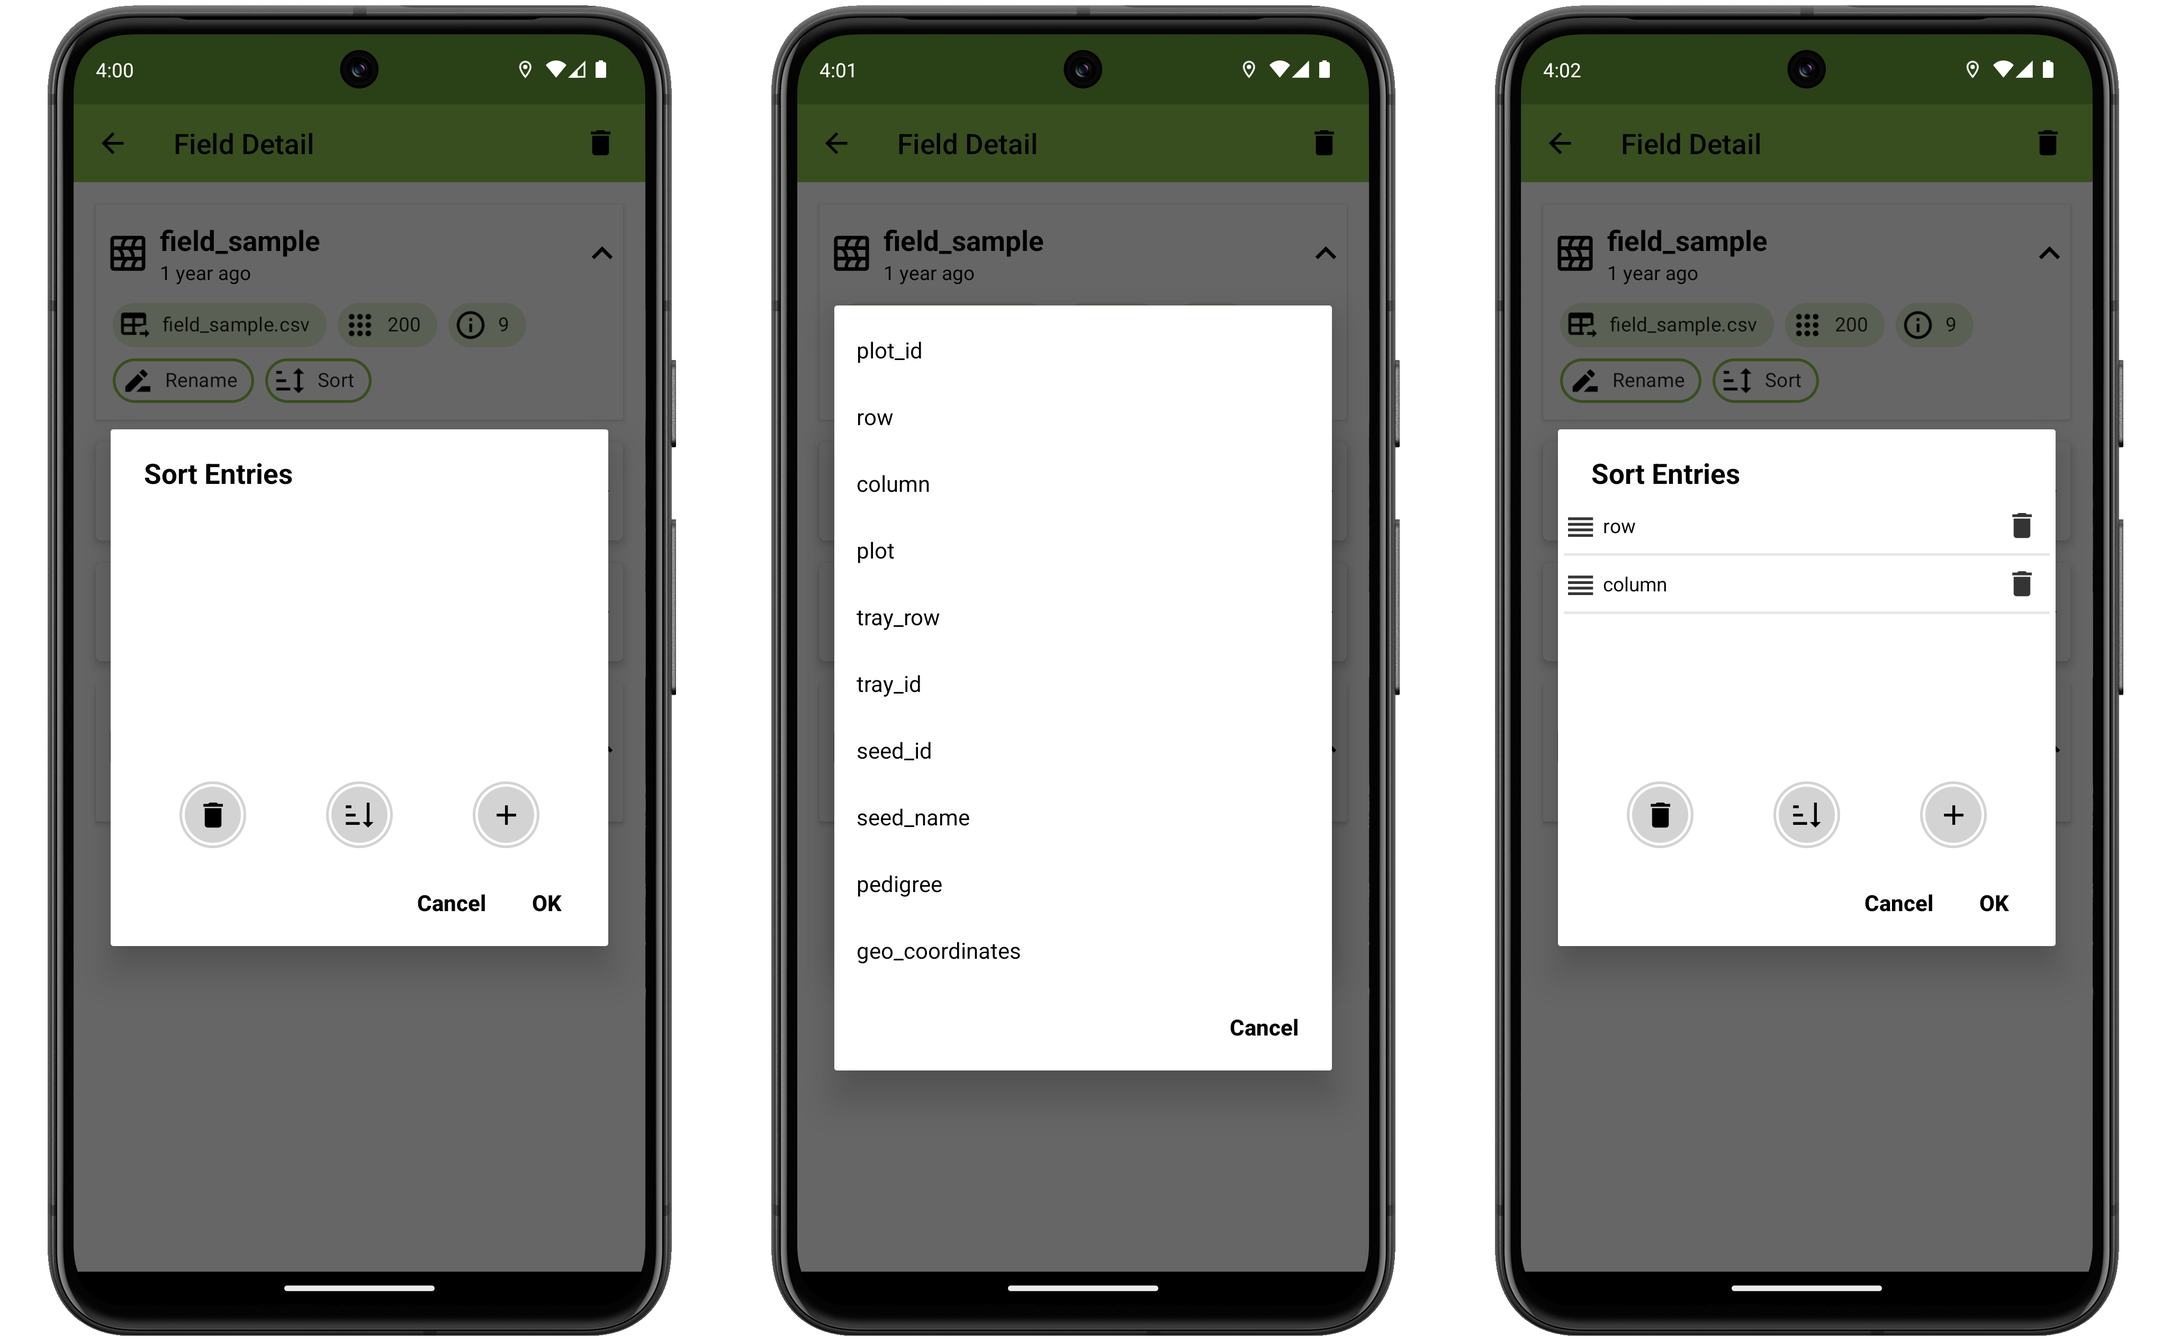
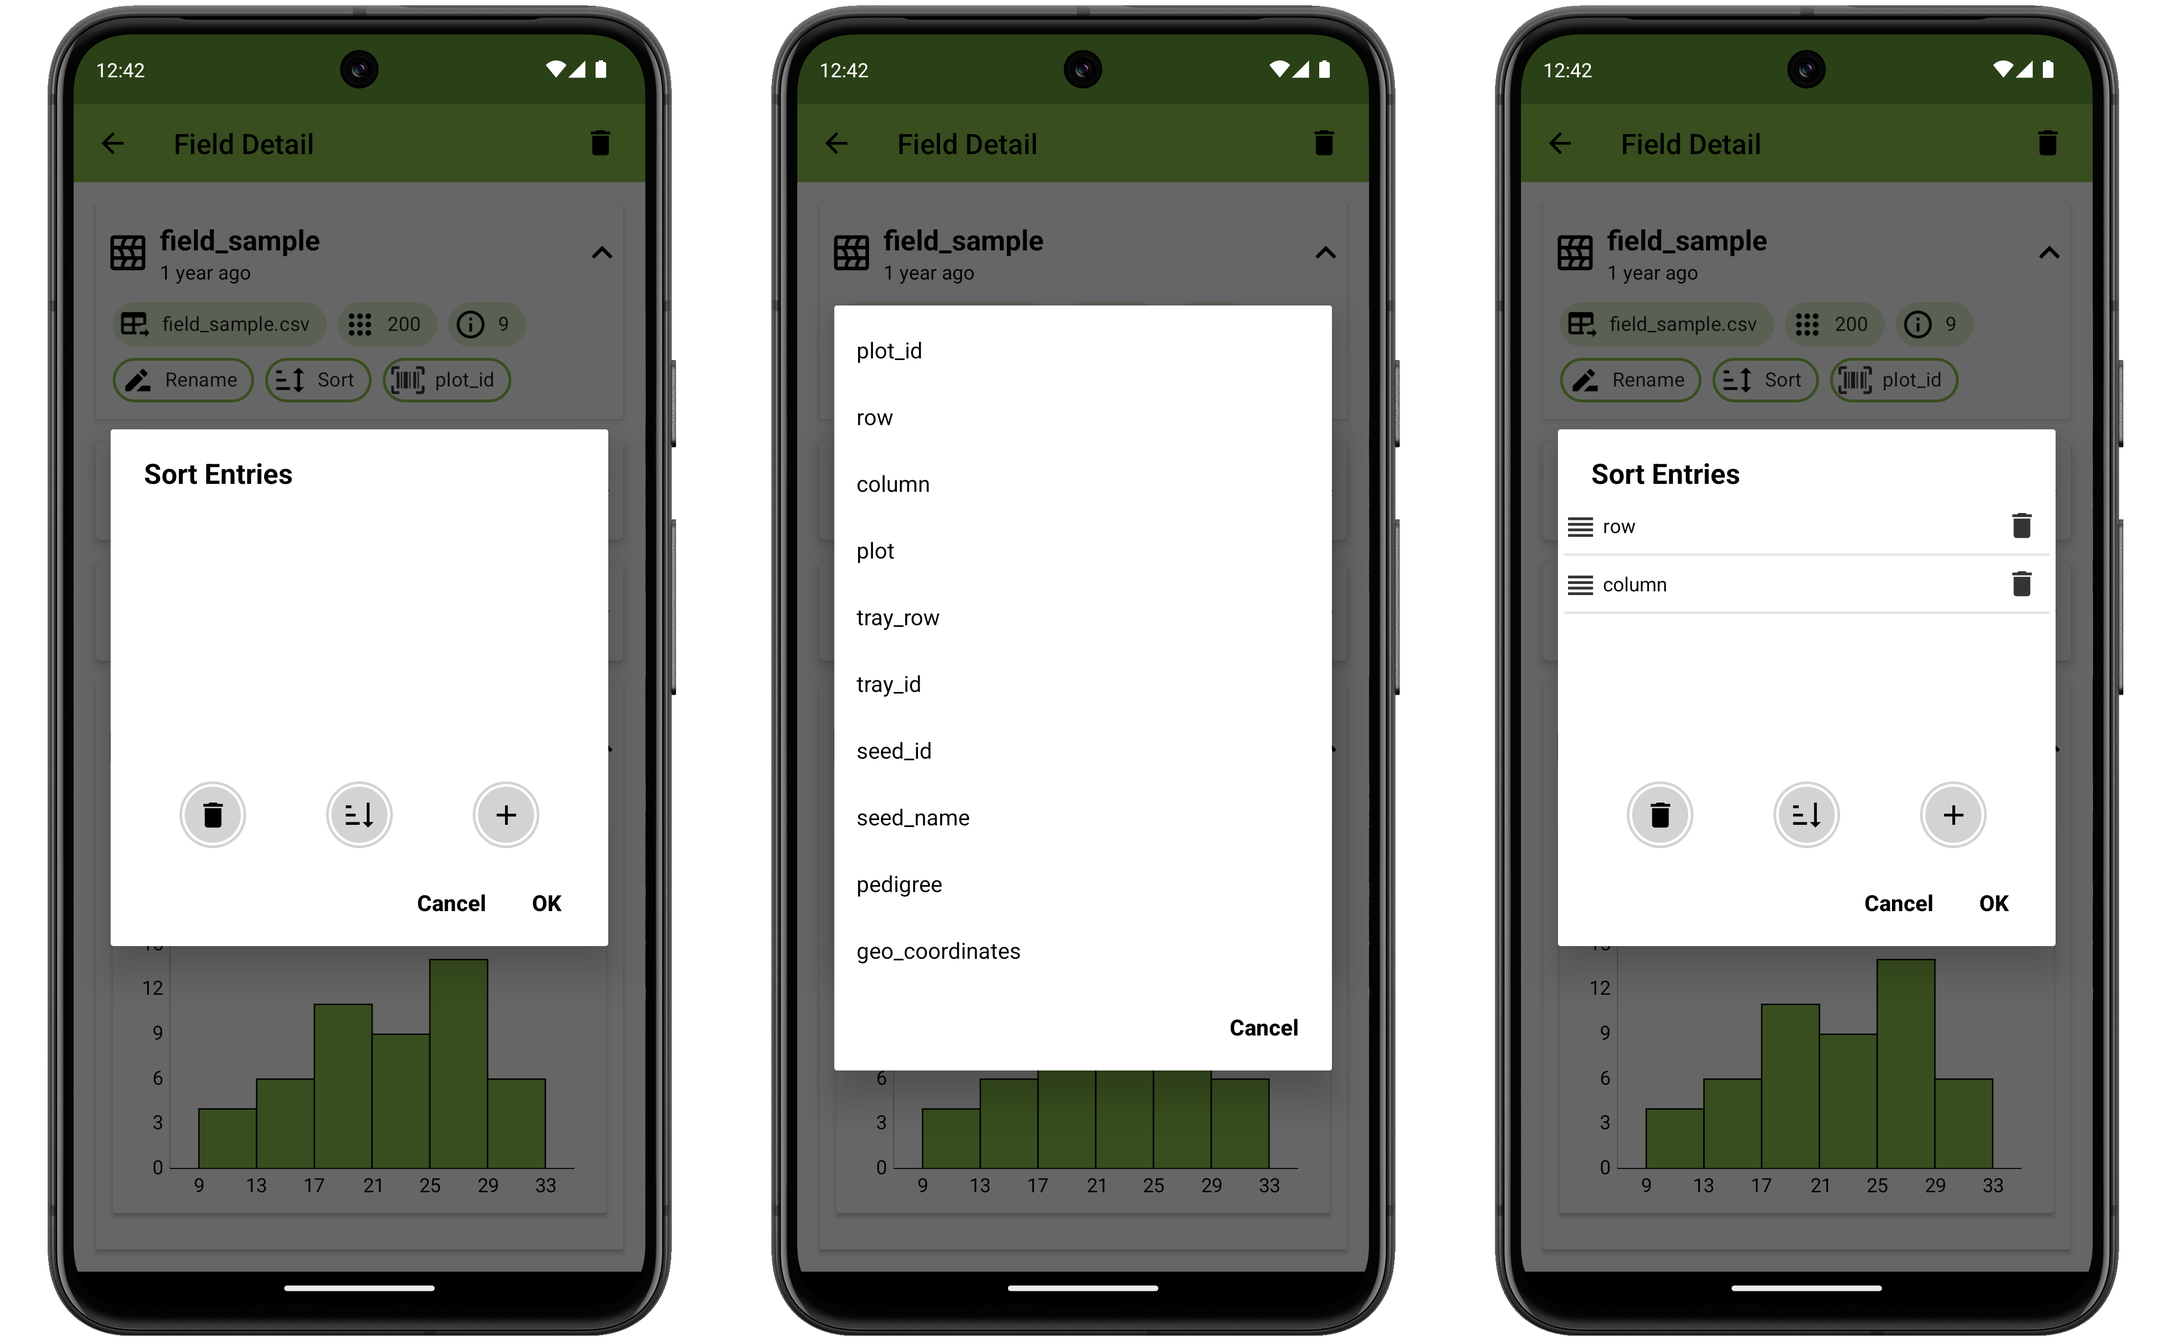
deploy: ce31963211b3767bee938e77c775e9d541aa81bc

diff --git a/index.html b/index.html
@@ -26,6 +26,10 @@
         crossChapter: true,
         crossChapterText: true,
       },
+      // maintains sidebar state in nested pages
+      alias: {
+        '/.*/_sidebar.md': '/_sidebar.md'
+      }
     }
   </script>
   <script src="https://cdn.jsdelivr.net/npm/docsify@4/lib/docsify.min.js"></script>

diff --git a/fields.md b/fields.md
@@ -23,17 +23,18 @@ Any other part of the field list item can be pressed to open the field details v
 
 When importing a file, each row of the file reprents an `entry`.
 
-Each entry within a field must have the following:
-
- - A `unique identifier` is used to associate data with the specific entry.
-It must be unique across all of your fields.
+Each entry within a field must have a `unique identifier`.
+The `unique identifier` is used to associate data with the specific entry and must be unique across all of your fields.
 The sample field import file shown below contains a unique identifier called **plot_id** (highlighted in red).
- - A `primary identifier`, and a `secondary identifier`.
-These columns will remain visible while advancing through the field's entries, and can be whatever makes the most sense for your experiment.
-Common choices are row/plot, range/plot, rep/plot, etc.
-The sample field import file contains primary and secondary unique identifiers called **row** and **plot** (highlighted in blue).
 
-Additional information such as variety name, pedigree, or treatments is optional, but can be included and viewed in the InfoBars or in the Summary dialog on the Collect screen.
+Any number of additional columns can be included to provide contextual information on the Collect screen.
+Values from two additional columns can be displayed as the primary and secondary ID between the entry navigation arrows, and any number of additional columns can be displayed in the Infobar section.
+Details of how to customize these choices and use the primary and secondary IDs for Quick GoTo are documented in <img class="icon" src="_static/icons/home/barley.png"> [Collect](collect.md).
+
+Examples of useful columns for navigation include layout numbers like `plot_number`, `row`, `column`, `rep`, or `block`.
+The sample field import file contains columns called `row` and `plot` (highlighted in blue) which are used as the primary and secondary identifiers in this documentation.
+
+Other useful context columns like `variety_name`, `pedigree`, or `treatment` are optional, but can be included and viewed in the InfoBars or in the Summary dialog in Collect.
 
 <figure class="image">
   <img class="screenshot" src="_static/images/fields/fields_import_format.png" width="900px"> 
@@ -71,7 +72,8 @@ Only `.csv`, `.xls`, or `.xlsx` files will appear in the import dialog.
 
 !> Filenames and column headers must exclude the special characters: `/ ? < > * | "`
 
-Once a file has been selected, the dropdown menus are used to select columns that correspond to Field Book's required columns.
+Once a file has been selected, the dropdown menu is used to select which column from the file should be used as the `unique_identifier`.
+
 Pressing **Import** will complete the import process.
 
 #### Cloud storage
@@ -145,7 +147,9 @@ A confirmation dialog message will be displayed prior to field deletion.
 </figure>
 
 The top card includes metadata about the field (import source, entry count, attribute count).
-**Renaming** fields will change the name displayed for the field throughout the app. **Sorting** displays a dialog to modify the entry order.
+**Renaming** fields will change the name displayed for the field throughout the app.
+**Sorting** displays a dialog to modify the entry order.
+<img class="icon" src="_static/icons/fields/barcode-scan.png"> **Search ID** displays a dialog to choose which unique attribute a barcode search will check against (default is the unique identifer selected on import).
 
 The sort dialog is populated by pressing the <img class="icon" src="_static/icons/fields/plus.png"> icon, and selecting from the list of available columns.
 Column priority for sorting can be modified by using using the <img class="icon" src="_static/icons/traits/reorder-horizontal.png"> icon to drag and reorder them.
@@ -155,6 +159,16 @@ The <img class="icon" src="_static/icons/settings/sounds/delete.png"> icon will 
 <figure class="image">
   <img class="screenshot" src="_static/images/fields/field_detail_sort_joined.png" width="1100px"> 
   <figcaption class="screenshot-caption"><i>Sorting entries by ascending row, then column</i></figcaption> 
+</figure>
+
+The Search ID dialog displays a list of attributes that are unique within the field.
+By default barcode searches check against the unique identifer that was selected on import.
+Select a different attribute to modify that behavior - barcode searches will check against the selected Search ID first, then fall back to checking against the unique identifier if no match is found.
+This choice can be applied to all fields that have the same attribute by selecting the checkbox.
+
+<figure class="image">
+  <img class="screenshot" src="_static/images/fields/field_detail_search_id.png" width="350px"> 
+  <figcaption class="screenshot-caption"><i>The Search ID dialog</i></figcaption> 
 </figure>
 
 The <img class="icon" src="_static/icons/home/barley.png"> [Collect](collect.md) card will navigate to the Collect screen where data can be collected.

diff --git a/collect.md b/collect.md
@@ -2,7 +2,7 @@
 
 # Collect
 
-Field Book increases data collection speed be collected by optimizing and simplifying data input.
+Field Book increases data collection speed by optimizing and simplifying data input.
 Only a single entry and trait are visible for data input which reduces the risk of error and allows custom trait-specific layouts.
 
 ## Overview
@@ -126,11 +126,27 @@ The bar at the top of the section shows progress through all entries in the fiel
 Pressing and holding the an arrow will continuously scroll through the entries.
 The longer the arrows are pressed, the faster the scrolling becomes.
 
+Primary and secondary IDs are displayed between the entry arrows. Different attributes can be selected to be displayed by pressing the labels.
+
+<figure class="image">
+  <img class="screenshot" src="_static/images/collect/collect_choose_id_framed.png" width="325px"> 
+  <figcaption class="screenshot-caption"><i>Modifying which attribute is used as primary id</i></figcaption> 
+</figure>
+
+The values can be pressed to open the new Quick GoTo dialog (The legacy Quick GoTo setting has been removed now that the feature is available by default). Enter a new value to jump to the first matching entry.
+
+<figure class="image">
+  <img class="screenshot" src="_static/images/collect/collect_quick_go_to.png" width="325px"> 
+  <figcaption class="screenshot-caption"><i>The Quick GoTo dialog</i></figcaption> 
+</figure>
+
 #### Data input
 
 The bottom half of the screen is used to input data.
 The elements and layout of this area change based on the trait that is currently active.
 Information for each specific trait format can be found in the Trait Formats pages.
+
+Newly input or edited values are colored black and displayed with italic font. Saved values are colored red and displayed in normal font. The font difference can be used to distinguish between the two even on black and white screens.
 
 <figure class="image">
   <img class="screenshot" src="_static/images/collect/collect_framed.png" width="350px"> 

diff --git a/traits/trait-photo.md b/traits/trait-photo.md
@@ -5,7 +5,7 @@
 ## Overview
 
 The photo trait formats are used to capture images.
-Field Book allows photos to be captured from different camera sources including the device camera, <img class="icon" src="_static/icons/formats/webcam.png"> USB cameras, <img class="icon" src="_static/icons/formats/camera-gopro.png"> GoPro cameras, and <img class="icon" src="_static/icons/formats/shutter.png"> Canon DSLRs.
+Field Book allows photos to be captured from different camera sources including the device camera, <img class="icon" src="_static/icons/formats/webcam.png"> USB cameras, <img class="icon" src="_static/icons/formats/camera-gopro.png"> GoPro cameras, and <img class="icon" src="_static/icons/formats/shutter.png"> [compatible](https://developercommunity.usa.canon.com/s/article/CCAPI-Supported-Cameras) Canon cameras.
 
 ## Creation
 
@@ -23,6 +23,15 @@ Field Book allows photos to be captured from different camera sources including 
 
 On the Collect Screen, pressing the <img class="icon" src="_static/icons/formats/shutter.png"> icon captures an image from the camera.
 Pressing the <img class="icon" src="_static/icons/formats/cog.png"> icon opens a settings dialog, where the resolution, preview, and other options can be adjusted.
+
+If crop region was set to true when creating the trait then the "Set Crop Region" option will show up in the settings.
+Press it to take a photo and adjust the crop dimensions that will automatically be applied to captured photos. 
+
+<figure class="image">
+  <img class="screenshot" src="_static/images/traits/formats/crop_region_joined.png" width="1100px"> 
+  <figcaption class="screenshot-caption"><i>Setting a photo trait's crop region</i></figcaption> 
+</figure>
+
 Multiple photos can be captured for each entry. 
 
 Captured photos are stored in `.jpg` format, and named by using underscores to join the entry's `unique id`, the trait name, the photo number, and a timestamp.

diff --git a/settings.md b/settings.md
@@ -26,3 +26,27 @@ The <img class="icon" src="_static/icons/collect/magnify.png"> **Search Bar** at
   <img class="screenshot" src="_static/images/settings/settings_search_example.png" width="350px"> 
   <figcaption class="screenshot-caption"><i>Searching for a specific setting</i></figcaption> 
 </figure>
+
+The <img class="icon" src="_static/icons/settings/swap-horizontal-circle-outline.png"> **Nearby Share** icon in the top right of the toolbar can be used to quickly copy all settings from one device to another.
+
+
+First, press the <img class="icon" src="_static/icons/settings/swap-horizontal-circle-outline.png"> icon and choose whether the device will be importing or exporting settings.
+If this is the first time using the feature you will also have to give permission to use nearby share.
+After these choices the app will indicate it is looking for a nearby device.
+
+<figure class="image">
+  <img class="screenshot" src="_static/images/settings/settings_share_joined_1.png" width="1100px"> 
+  <figcaption class="screenshot-caption"><i>Initial steps to share settings with nearby share</i></figcaption> 
+</figure>
+
+Follow the same steps on the other device you are importing from/exporting to.
+The importing device will then display a list of devices it sees nearby that are trying to share data.
+Select the desired device, confirm the pairing codes match, and accept the connection on both devices.
+Once accepted the transfer will occur and indicate it is finished with a "Transfer completed" message. 
+
+<figure class="image">
+  <img class="screenshot" src="_static/images/settings/settings_share_joined_2.png" width="1100px"> 
+  <figcaption class="screenshot-caption"><i>Final steps to share settings with nearby share</i></figcaption> 
+</figure>
+
+

diff --git a/settings/settings-profile.md b/settings/settings-profile.md
@@ -19,6 +19,14 @@ This information is stored as metadata for each collected observation and is inc
   <figcaption class="screenshot-caption"><i>Set Person dialog</i></figcaption> 
 </figure>
 
+If person name needs to be changed, Field Book will present a list of previously used names as options to choose from (to save time and reduce mistakes).
+If the list does not yet include the correct name press `New Person` to enter a new name manually.
+
+<figure class="image">
+  <img class="screenshot" src="_static/images/settings/profile/settings_profile_previous_names.png" width="325px"> 
+  <figcaption class="screenshot-caption"><i>Previous Names dialog</i></figcaption> 
+</figure>
+
 #### <img class="icon" src="_static/icons/settings/profile/account-clock-outline.png"> Verification Interval
 
 Determines <img class="icon" src="_static/icons/settings/profile/hours-24.png"> how frequently Field Book will ask for confirmation that the correct name is set for the person operating the app.

diff --git a/settings/settings-appearance.md b/settings/settings-appearance.md
@@ -56,12 +56,3 @@ Displays icons in place of InfoBar prefixes.
   <img class="screenshot" src="_static/images/settings/appearance/settings_appearance_infobar_prefixes_framed.png" width="325px"> 
   <figcaption class="screenshot-caption"><i>InfoBars with InfoBar prefixes hidden</i></figcaption> 
 </figure>
-
-#### <img class="icon" src="_static/icons/settings/appearance/run-fast.png"> Quick GoTo
-
-Changes the primary/secondary order on the Collect screen to edit texts that can search and move to specific entries.
-
-<figure class="image">
-  <img class="screenshot" src="_static/images/settings/appearance/settings_appearance_quick_goto.png" width="325px"> 
-  <figcaption class="screenshot-caption"><i>Editable primary/secondary order</i></figcaption> 
-</figure>

diff --git a/README.md b/README.md
@@ -49,8 +49,8 @@ Navigate between these to:
 
  - Customize <img class="icon" src="_static/icons/home/cog.png"> [Settings](settings.md)
  
-  - View data <img class="icon" src="_static/icons/home/chart-bar.png"> [Statistics](statistics.md)
+ - View data <img class="icon" src="_static/icons/home/chart-bar.png"> [Statistics](statistics.md)
   
-  - Learn more <img class="icon" src="_static/icons/home/information.png"> [About](about.md) Field Book or check for updates
+ - Learn more <img class="icon" src="_static/icons/home/information.png"> [About](about.md) Field Book or check for updates
 
 The <img class="icon" src="_static/icons/home/history.png"> Changelog can be accessed from the top toolbar to see new features and additions to the app.

diff --git a/brapi.md b/brapi.md
@@ -42,7 +42,7 @@ If your field was recently created in your database, you may need to reset the c
 Press the import button on the bottom of the screen to download the fields to Field Book.
 
 The final screen shows additional details for each selected field, including the number of entries, number of associated traits, location, and season.
-The tabs at the top can be used to change the observation level, primary ID, secondary ID, and sort order for the selected fields.
+The tabs at the top can be used to change the observation level and sort order for the selected fields.
 
 Press the Save button at the bottom of the screen to import the fields into Field Book.
 The fields and any linked traits will be saved for use in Field Book.

diff --git a/statistics.md b/statistics.md
@@ -34,8 +34,8 @@ Press the arrow icon in the upper righthand corner of a card to export an image 
 ## Heatmap
 
 The heatmap view can be accessed through the icon on the toolbar.
-The heatmap view shows your collection activy overlayed on a calendar.
-Each circle on a date represents collection acvtity on that date, with the color intensity corresponding to the number of observations.
+The heatmap view shows your collection activity overlayed on a calendar.
+Each circle on a date represents collection activity on that date, with the color intensity corresponding to the number of observations.
 
 Use the up and down arrows in the toolbar to scroll through the calendar.
 Use the calendar icon to set a custom range of dates.

diff --git a/settings/settings-features.md b/settings/settings-features.md
@@ -33,7 +33,7 @@ Adds a button to the Collect top toolbar thats skips to the next entry without d
 #### <img class="icon" src="_static/icons/settings/features/barcode-scan.png"> Move to unique identifier
 
 Adds a <img class="icon" src="_static/icons/settings/features/barcode-scan.png"> icon to the Collect toolbar.
-Can be set to one of two behavior option. 
+Can be set to one of two behavior options. 
 One option is for the tool to open a text entry dialog.
 Move to a specific entry by typing a `unique id` or by pressing scan and scanning a barcode that encodes a `unique id`.
 Alternatively, choose the second option to directly initiate a barcode scan with the device camera.

diff --git a/traits/trait-angle.md b/traits/trait-angle.md
@@ -1,0 +1,11 @@
+<link rel="stylesheet" type="text/css" href="_styles/styles.css">
+
+# <img class="icon-title" src="_static/icons/formats/angle-acute.png"> Angle Trait
+
+The angle trait uses the device’s accelerometer to measure its angle from vertical.
+Align the device parallel to a branch or leaf at its junction with the main stem, then press the angle button to record the angle from vertical.
+
+<figure class="image">
+  <img class="screenshot" src="_static/images/traits/formats/angle_format_joined.png" width="700px"> 
+  <figcaption class="screenshot-caption"><i>Angle trait creation dialog and collect format</i></figcaption> 
+</figure>
